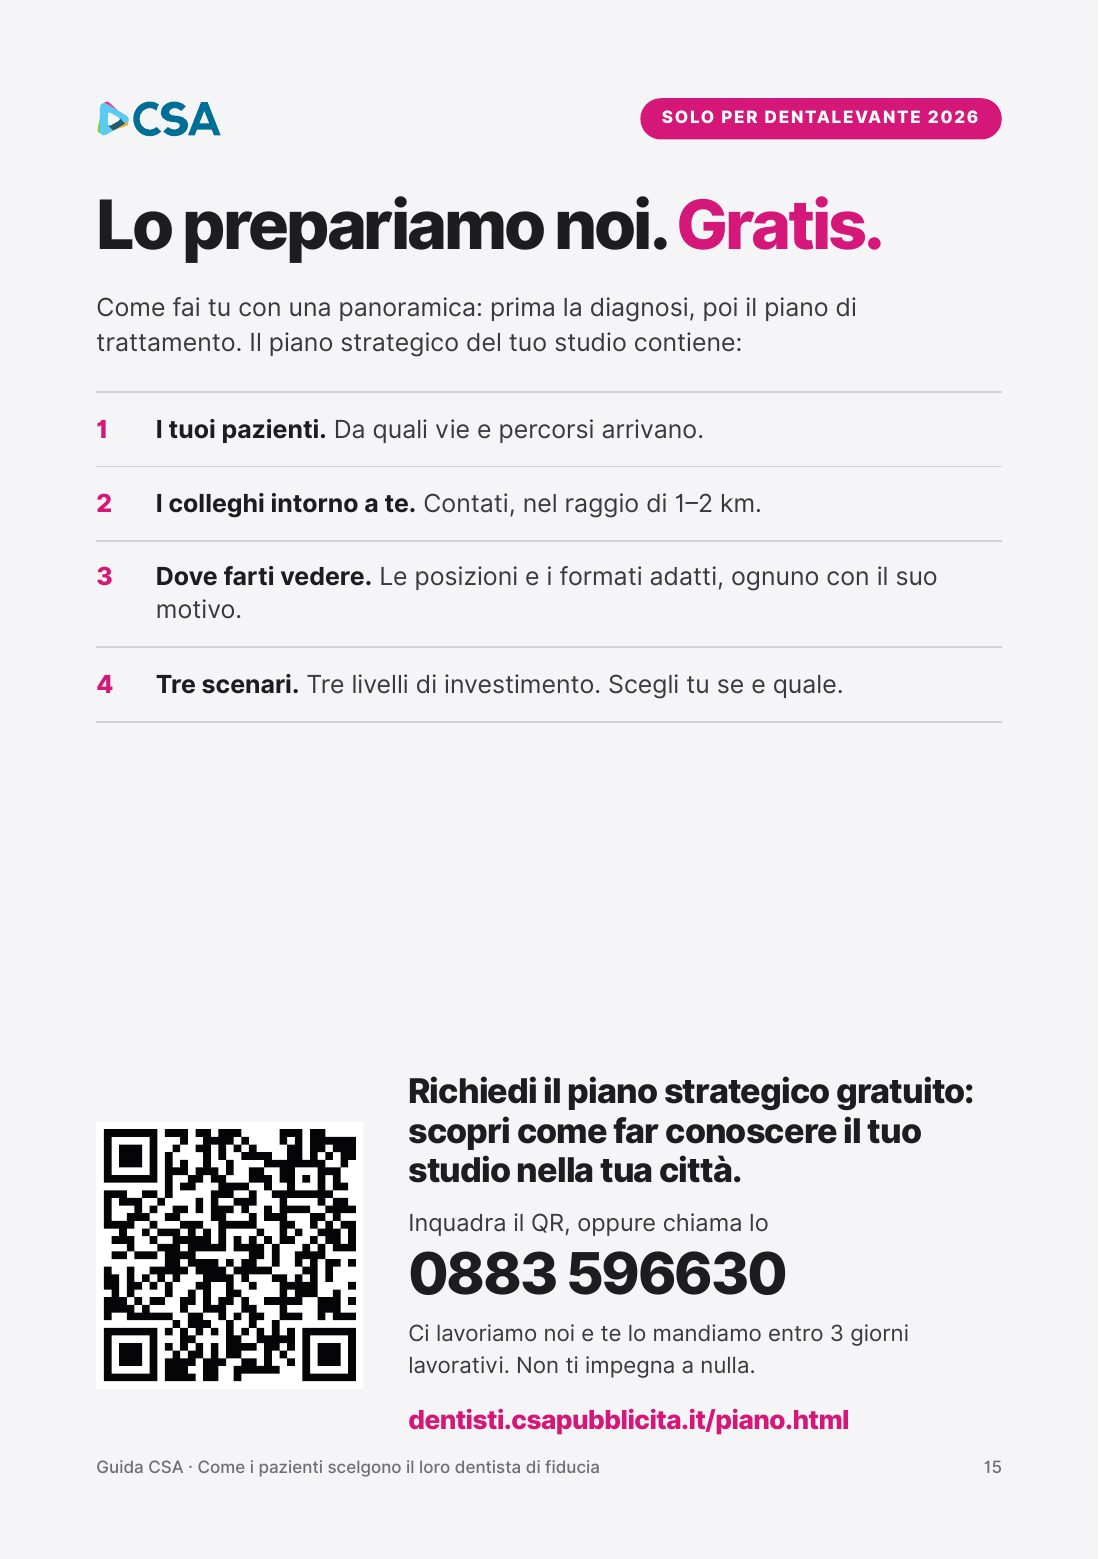
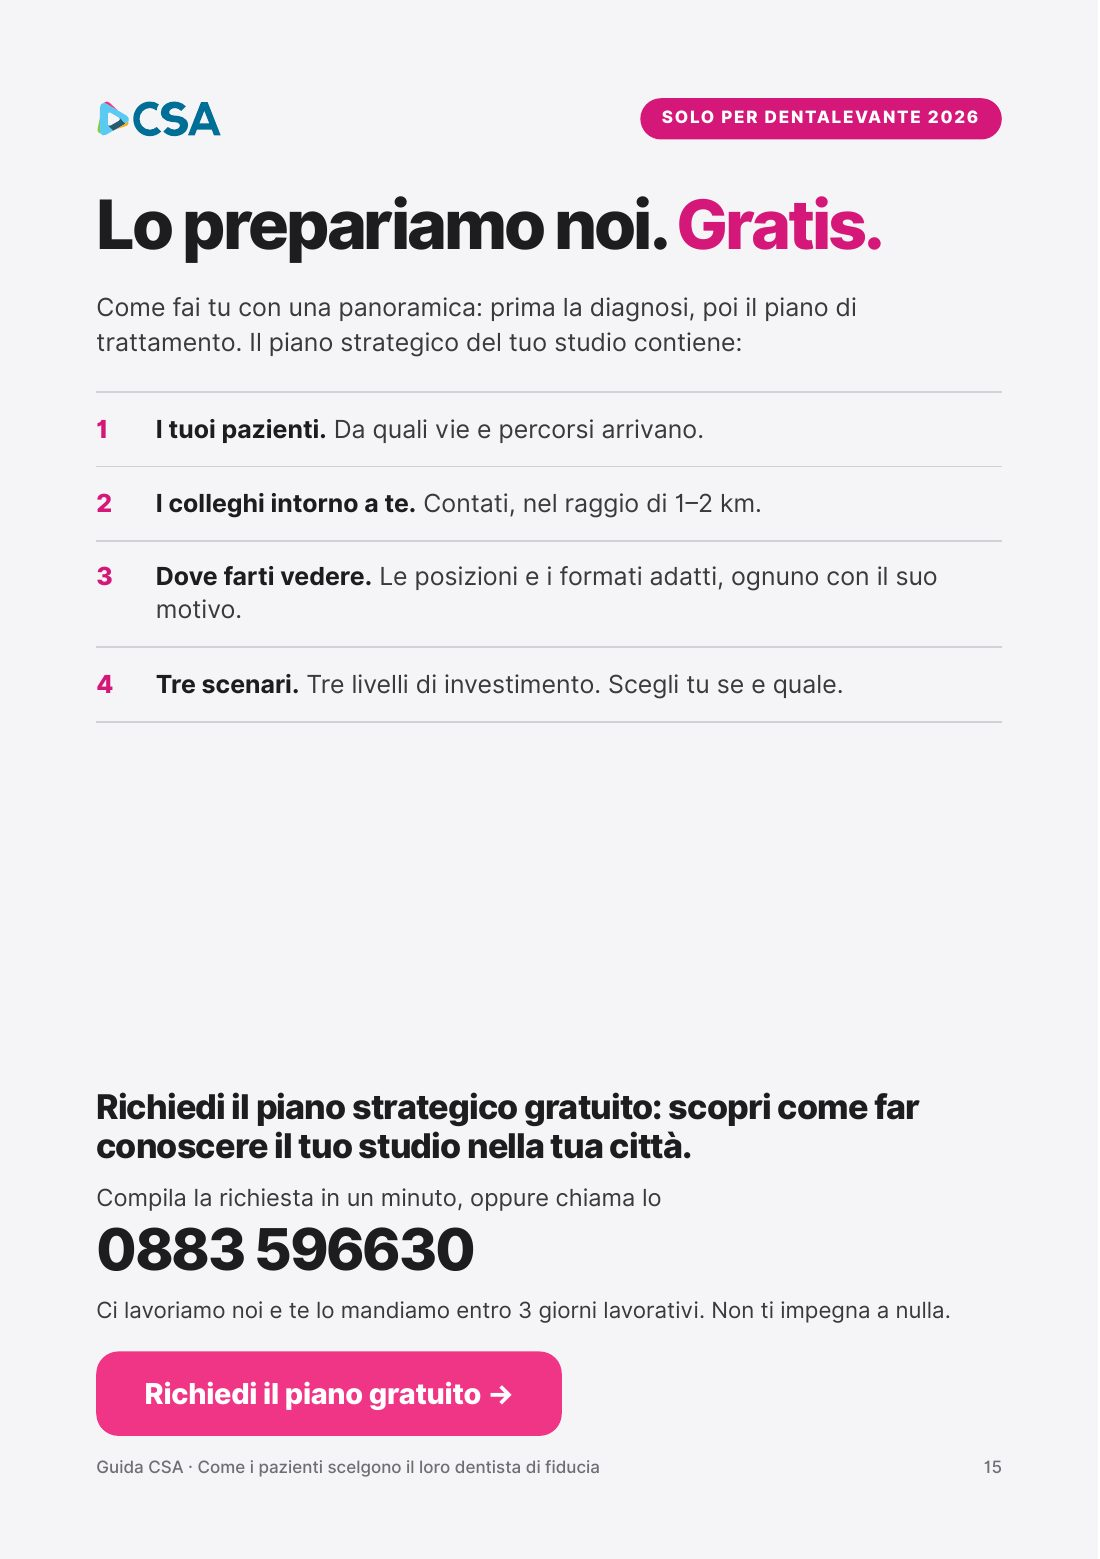
Sfogliabile: pulsante al posto del QR e modulo del piano in finestra

Changed region(s): [[0.0618, 0.6774, 0.8964, 0.9237]]

diff --git a/guida.html b/guida.html
@@ -13,9 +13,12 @@
       pdftoppm -scale-to-x 1100 -scale-to-y -1 -jpeg -jpegopt quality=82 04-guida-dentista-A5.pdf 14-landing/assets/guida/p
   - Sfoglia: StPageFlip 2.0.7 (MIT), in assets/vendor/page-flip.browser.js.
   - Video delle testimonianze (pagine 10-13): si aprono in una finestra sopra la guida (youtube-nocookie), senza uscire.
-  - QR e indirizzo delle pagine 15-16 e la barra in basso: portano a piano.html, sullo stesso sito.
+  - Pagine 15-16 in versione digitale (pulsante al posto del QR, da sorgenti/guida-web.sh). I pulsanti delle pagine 15-16,
+    la barra in basso e la finestra dei video aprono una finestra con il modulo del piano (modulo HubSpot «Landing 2»):
+    il lettore resta nella guida. Senza JavaScript i link portano a piano.html.
   - Tracciamento HubSpot: visita della pagina + visite «virtuali» per ogni video aperto (/guida.html?video=…),
-    per l'arrivo alla pagina del piano (/guida.html?pagina=15) e per il download del PDF (/guida.html?azione=pdf).
+    per l'arrivo alla pagina del piano (/guida.html?pagina=15), per il download del PDF (/guida.html?azione=pdf),
+    per l'apertura del modulo (/guida.html?piano=aperto-…) e per l'invio (/guida.html?piano=inviato).
 -->
 <style>
 @font-face { font-family: Inter; font-weight: 500; src: url(assets/Inter-Medium.otf); font-display: swap; }
@@ -61,6 +64,35 @@ main { position: relative; z-index: 1; flex: 1; display: flex; flex-direction: c
 #modal iframe { position: absolute; inset: 0; width: 100%; height: 100%; border: 0; }
 #modal .dopo { margin-top: 14px; display: flex; flex-wrap: wrap; align-items: center; gap: 10px 16px; font-size: 14px; color: #D1D1D6; }
 #modal .dopo a { color: #fff; font-weight: 800; text-decoration: none; background: var(--m); padding: 11px 16px; border-radius: 10px; }
+/* finestra con il modulo del piano */
+#mPiano { position: fixed; inset: 0; z-index: 30; display: none; align-items: flex-start; justify-content: center; padding: 24px var(--gutter); background: rgba(0,0,0,.78); overflow-y: auto; -webkit-overflow-scrolling: touch; }
+#mPiano.on { display: flex; }
+#mPiano .scheda { position: relative; width: 100%; max-width: 620px; margin: auto 0; background: #fff; color: #1D1D1F; border-radius: 20px; padding: 28px 24px 24px; }
+#mPiano .chiudi { position: absolute; top: 12px; right: 12px; width: 40px; height: 40px; border-radius: 50%; border: 0; background: #F5F5F7; color: #1D1D1F; font-size: 22px; cursor: pointer; }
+#mPiano .pill { display: inline-block; background: var(--m); color: #fff; font-size: 11px; font-weight: 800; letter-spacing: .1em; text-transform: uppercase; padding: 6px 12px; border-radius: 99px; }
+#mPiano h2 { font-size: 27px; font-weight: 800; letter-spacing: -0.035em; line-height: 1.08; margin: 12px 40px 8px 0; }
+#mPiano .sotto { font-size: 15px; line-height: 1.5; color: #3A3A3C; }
+#mPiano .campi { display: grid; grid-template-columns: 1fr 1fr; gap: 12px 12px; margin-top: 18px; }
+#mPiano .largo { grid-column: 1 / -1; }
+@media (max-width: 520px) { #mPiano .campi { grid-template-columns: 1fr; } #mPiano { padding: 12px; } #mPiano .scheda { padding: 24px 18px 20px; } }
+#mPiano label { display: block; font-size: 13px; font-weight: 700; color: #3A3A3C; margin-bottom: 6px; }
+#mPiano input[type=text], #mPiano input[type=tel], #mPiano input[type=email] { width: 100%; min-height: 50px; border: 1.5px solid #D1D1D6; border-radius: 12px; padding: 0 14px; font: 500 16px Inter, sans-serif; color: #1D1D1F; background: #fff; }
+#mPiano input:focus { outline: none; border-color: #D6177A; }
+#mPiano input[aria-invalid=true] { border-color: #D6177A; background: #FFF5F9; }
+#mPiano .scelte { display: flex; flex-wrap: wrap; gap: 8px; }
+#mPiano .scelte label { margin: 0; position: relative; }
+#mPiano .scelte input { position: absolute; opacity: 0; pointer-events: none; }
+#mPiano .scelte span { display: inline-flex; align-items: center; min-height: 44px; padding: 0 15px; border-radius: 22px; border: 1.5px solid #D1D1D6; font-size: 15px; font-weight: 600; cursor: pointer; }
+#mPiano .scelte input:checked + span { background: #1D1D1F; border-color: #1D1D1F; color: #fff; }
+#mPiano .consenso { display: flex; gap: 10px; align-items: flex-start; font-size: 14px; font-weight: 500; line-height: 1.4; margin-top: 14px; }
+#mPiano .consenso input { width: 20px; height: 20px; flex: none; margin-top: 1px; accent-color: #D6177A; }
+#mPiano .info { font-size: 12px; color: #6E6E73; margin-top: 12px; }
+#mPiano .info a { color: #6E6E73; }
+#mPiano .errore { display: none; margin-top: 12px; background: #FFF0F5; color: #B0135F; border-radius: 10px; padding: 11px 12px; font-size: 14px; font-weight: 600; }
+#mPiano .errore.on { display: block; }
+#mPiano .invia { width: 100%; margin-top: 16px; border: 0; border-radius: 14px; background: #D6177A; color: #fff; font: 800 17px Inter, sans-serif; padding: 16px; cursor: pointer; }
+#mPiano .invia:disabled { opacity: .6; }
+#mPiano .ok { width: 52px; height: 52px; border-radius: 50%; background: #2FB36B; color: #fff; font-size: 28px; font-weight: 800; display: flex; align-items: center; justify-content: center; }
 </style>
 </head>
 <body>
@@ -85,14 +117,55 @@ main { position: relative; z-index: 1; flex: 1; display: flex; flex-direction: c
 
 <div class="barra"><div class="riga">
   <p><b>Solo per Dentalevante:</b> il piano strategico gratuito del tuo studio, entro 3 giorni lavorativi.</p>
-  <a id="ctaPiano" href="piano.html?utm_source=guida-web">Richiedi il piano gratuito →</a>
+  <a id="ctaPiano" href="piano.html?utm_source=guida-web" data-piano="barra">Richiedi il piano gratuito →</a>
 </div></div>
 
 <div id="modal" role="dialog" aria-modal="true" aria-labelledby="modalTitolo">
   <div class="box">
     <div class="testa"><b id="modalTitolo"></b><button class="chiudi" id="chiudi" type="button" aria-label="Chiudi il video">×</button></div>
     <div class="video" id="video"></div>
-    <div class="dopo"><span>Vuoi farlo anche per il tuo studio?</span><a href="piano.html?utm_source=guida-video">Richiedi il piano gratuito →</a></div>
+    <div class="dopo"><span>Vuoi farlo anche per il tuo studio?</span><a href="piano.html?utm_source=guida-video" data-piano="video">Richiedi il piano gratuito →</a></div>
+  </div>
+</div>
+
+<div id="mPiano" role="dialog" aria-modal="true" aria-labelledby="mPianoTitolo">
+  <div class="scheda">
+    <button class="chiudi" id="chiudiPiano" type="button" aria-label="Chiudi">×</button>
+    <form id="modulo" novalidate>
+      <span class="pill">Solo per Dentalevante · gratis</span>
+      <h2 id="mPianoTitolo">Il piano strategico del tuo studio.</h2>
+      <p class="sotto">Lo prepariamo noi e te lo mandiamo <b>entro 3 giorni lavorativi</b>: i tuoi pazienti, i colleghi intorno a te, dove farti vedere, tre scenari. Non ti impegna a nulla.</p>
+      <div class="campi">
+        <div><label for="nome">Nome e cognome</label><input type="text" id="nome" autocomplete="name"></div>
+        <div><label for="nomestudio">Nome dello studio</label><input type="text" id="nomestudio" autocomplete="organization"></div>
+        <div><label for="comune">Comune</label><input type="text" id="comune" autocomplete="address-level2"></div>
+        <div><label for="cellulare">Cellulare</label><input type="tel" id="cellulare" autocomplete="tel" inputmode="tel"></div>
+        <div class="largo"><label for="email">Email</label><input type="email" id="email" autocomplete="email" inputmode="email"></div>
+        <div class="largo"><label id="l_tipo">Il tuo studio</label>
+          <div class="scelte" role="radiogroup" aria-labelledby="l_tipo">
+            <label><input type="radio" name="tipo" value="una sede"><span>Una sede</span></label>
+            <label><input type="radio" name="tipo" value="più sedi"><span>Più sedi</span></label>
+            <label><input type="radio" name="tipo" value="sto aprendo"><span>Sto aprendo</span></label>
+          </div></div>
+        <div class="largo"><label id="l_fascia">Quando preferisci essere chiamato?</label>
+          <div class="scelte" role="radiogroup" aria-labelledby="l_fascia">
+            <label><input type="radio" name="fascia" value="mattina"><span>Mattina</span></label>
+            <label><input type="radio" name="fascia" value="pausa pranzo"><span>Pausa pranzo</span></label>
+            <label><input type="radio" name="fascia" value="fine giornata"><span>Fine giornata</span></label>
+          </div></div>
+      </div>
+      <label class="consenso"><input type="checkbox" id="c_ricontatto"><span><b>Voglio ricevere il piano strategico gratuito</b> ed essere ricontattato da CSA per parlarne.</span></label>
+      <label class="consenso"><input type="checkbox" id="c_marketing"><span>Facoltativo. Accetto di ricevere da CSA aggiornamenti e proposte commerciali.</span></label>
+      <p class="info">Titolare del trattamento: C.S.A. S.r.l., Andria (BT). <a href="https://www.iubenda.com/privacy-policy/49713644" target="_blank" rel="noopener">Informativa privacy</a>.</p>
+      <p class="errore" id="errore" role="alert"></p>
+      <button class="invia" type="submit" id="invia">Voglio il mio piano</button>
+    </form>
+    <div id="fatto" hidden>
+      <div class="ok">✓</div>
+      <h2>Fatto. Il tuo piano è in preparazione.</h2>
+      <p class="sotto">Te lo mandiamo <b>entro 3 giorni lavorativi</b>, all'indirizzo che ci hai lasciato. Ti abbiamo appena scritto: se non trovi la mail, controlla la posta indesiderata.</p>
+      <button class="invia" type="button" id="torna">Torna alla guida</button>
+    </div>
   </div>
 </div>
 
@@ -105,9 +178,9 @@ const VIDEO = {
   12: { id: "lsXrYXUX0q0", nome: "Chiarappa Impianti, Modugno", top: .844 },
   13: { id: "kfE5_1H2jRc", nome: "FG Service, forniture industriali e utensileria", top: .740 }
 };
-const PIANO = {
-  15: [{ left: .085, top: .68, w: .83, h: .245 }],
-  16: [{ left: .085, top: .425, w: .83, h: .165 }]
+const PIANO = {   // pulsanti «Richiedi il piano gratuito» delle pagine digitali 15-16 (da sorgenti/guida-web.sh)
+  15: [{ left: .080, top: .860, w: .437, h: .068 }],
+  16: [{ left: .080, top: .444, w: .437, h: .068 }]
 };
 const N = 16;
 
@@ -132,8 +205,9 @@ for (let i = 1; i <= N; i++) {
     d.appendChild(b);
   }
   (PIANO[i] || []).forEach(function (z) {
-    const a = document.createElement("a");
-    a.className = "hot"; a.href = "piano.html?utm_source=guida-web&pagina=" + i; a.setAttribute("aria-label", "Richiedi il piano strategico gratuito");
+    const a = document.createElement("button");
+    a.className = "hot pulse"; a.type = "button"; a.dataset.piano = "pagina-" + i; a.setAttribute("aria-label", "Richiedi il piano strategico gratuito");
+    a.addEventListener("click", function (e) { e.stopPropagation(); apriPiano("pagina-" + i); });
     Object.assign(a.style, { left: (z.left * 100) + "%", width: (z.w * 100) + "%", top: (z.top * 100) + "%", height: (z.h * 100) + "%" });
     d.appendChild(a);
   });
@@ -153,10 +227,6 @@ const flip = new St.PageFlip(libro, {
 });
 flip.loadFromHTML(document.querySelectorAll("#libro .pagina"));
 
-// i link dentro le pagine: StPageFlip li inoltra, ma per sicurezza gestiamo anche il tocco
-libro.addEventListener("click", function (e) {
-  const a = e.target.closest("a.hot"); if (a) { location.href = a.href; }
-});
 
 const contatore = document.getElementById("contatore"), prima = document.getElementById("prima"), dopo = document.getElementById("dopo");
 const viste = new Set();
@@ -175,6 +245,7 @@ prima.addEventListener("click", function () { flip.flipPrev(); });
 dopo.addEventListener("click", function () { flip.flipNext(); });
 document.addEventListener("keydown", function (e) {
   if (document.getElementById("modal").classList.contains("on")) { if (e.key === "Escape") chiudiVideo(); return; }
+  if (document.getElementById("mPiano").classList.contains("on")) return;
   if (e.key === "ArrowRight") flip.flipNext(); if (e.key === "ArrowLeft") flip.flipPrev();
 });
 
@@ -191,6 +262,68 @@ function apriVideo(v) {
 function chiudiVideo() { modal.classList.remove("on"); video.innerHTML = ""; if (ultimoFocus) ultimoFocus.focus(); }
 document.getElementById("chiudi").addEventListener("click", chiudiVideo);
 modal.addEventListener("click", function (e) { if (e.target === modal) chiudiVideo(); });
+
+
+// ===== finestra con il modulo del piano =====
+const HUBSPOT = { portalId: "145641356", moduloPiano: "ba811dc5-2bdd-489e-9659-ebe8396bdb22" };  // Landing 2 · Richiedi il piano
+const q0 = new URLSearchParams(location.search);
+const provenienza = q0.get("utm_source") || "";
+const mPiano = document.getElementById("mPiano"), modulo = document.getElementById("modulo"), errore = document.getElementById("errore");
+let dovePiano = "", focusPrima = null;
+function apriPiano(da) {
+  dovePiano = da; focusPrima = document.activeElement;
+  if (modal.classList.contains("on")) chiudiVideo();
+  mPiano.classList.add("on"); document.body.style.overflow = "hidden";
+  setTimeout(function () { (document.getElementById("fatto").hidden ? document.getElementById("nome") : document.getElementById("torna")).focus(); }, 50);
+  traccia("/guida.html?piano=aperto-" + da);
+}
+function chiudiPiano() { mPiano.classList.remove("on"); document.body.style.overflow = ""; if (focusPrima) focusPrima.focus(); }
+document.querySelectorAll("[data-piano]").forEach(function (el) {
+  if (el.tagName === "A") el.addEventListener("click", function (e) { e.preventDefault(); apriPiano(el.dataset.piano); });
+});
+document.getElementById("chiudiPiano").addEventListener("click", chiudiPiano);
+document.getElementById("torna").addEventListener("click", chiudiPiano);
+mPiano.addEventListener("click", function (e) { if (e.target === mPiano) chiudiPiano(); });
+document.addEventListener("keydown", function (e) { if (e.key === "Escape" && mPiano.classList.contains("on")) chiudiPiano(); });
+
+function cookie(n) { const m = document.cookie.match(new RegExp("(?:^|; )" + n + "=([^;]*)")); return m ? m[1] : ""; }
+modulo.addEventListener("submit", async function (e) {
+  e.preventDefault(); errore.classList.remove("on");
+  const bad = [];
+  ["nome", "nomestudio", "comune", "cellulare", "email"].forEach(function (id) {
+    const el = document.getElementById(id); let ok = !!el.value.trim();
+    if (ok && id === "cellulare") ok = el.value.replace(/\D/g, "").length >= 9;
+    if (ok && id === "email") ok = /^[^\s@]+@[^\s@]+\.[^\s@]+$/.test(el.value.trim());
+    el.setAttribute("aria-invalid", ok ? "false" : "true"); if (!ok) bad.push(el);
+  });
+  if (bad.length || !document.getElementById("c_ricontatto").checked) {
+    errore.textContent = bad.length ? "Controlla i campi evidenziati." : "Per prepararti il piano ci serve il consenso.";
+    errore.classList.add("on"); if (bad[0]) bad[0].focus(); return;
+  }
+  const v = function (id) { return document.getElementById(id).value.trim(); };
+  const sc = function (n) { const el = modulo.querySelector("input[name=" + n + "]:checked"); return el ? el.value : ""; };
+  const parti = v("nome").split(/\s+/), tipo = sc("tipo"), fascia = sc("fascia"), mkt = document.getElementById("c_marketing").checked;
+  const righe = ["Richiesta del piano strategico gratuito", "Tipo di studio: " + (tipo || "non indicato"), "Fascia oraria preferita: " + (fascia || "non indicata"),
+    "Fonte: Dentalevante 2026 · guida sfogliabile (" + (dovePiano || "pulsante") + ")", "Consenso marketing: " + (mkt ? "sì" : "no"),
+    provenienza ? "Provenienza: " + provenienza : ""].filter(Boolean);
+  const campi = { email: v("email"), firstname: parti.shift() || "", lastname: parti.join(" "), mobilephone: v("cellulare"), company: v("nomestudio"), city: v("comune"), message: righe.join("\n") };
+  const corpo = {
+    fields: Object.keys(campi).map(function (k) { return { objectTypeId: "0-1", name: k, value: campi[k] }; }),
+    context: Object.assign({ pageUri: location.href, pageName: document.title }, cookie("hubspotutk") ? { hutk: cookie("hubspotutk") } : {}),
+    legalConsentOptions: { consent: { consentToProcess: true, text: "Acconsento al trattamento dei miei dati da parte di C.S.A. S.r.l. per ricevere quanto richiesto ed essere ricontattato." } }
+  };
+  const b = document.getElementById("invia"); b.disabled = true; b.textContent = "Invio in corso…";
+  try {
+    const r = await fetch("https://api-eu1.hsforms.com/submissions/v3/integration/submit/" + HUBSPOT.portalId + "/" + HUBSPOT.moduloPiano, { method: "POST", headers: { "Content-Type": "application/json" }, body: JSON.stringify(corpo) });
+    if (!r.ok) throw new Error("HubSpot " + r.status);
+    modulo.hidden = true; document.getElementById("fatto").hidden = false; document.getElementById("torna").focus();
+    traccia("/guida.html?piano=inviato");
+    document.getElementById("ctaPiano").textContent = "Piano richiesto ✓";
+  } catch (err) {
+    errore.textContent = "Non siamo riusciti a inviare la richiesta. Riprova, oppure chiama lo 0883 596630."; errore.classList.add("on");
+  }
+  b.disabled = false; b.textContent = "Voglio il mio piano";
+});
 
 document.getElementById("pdf").addEventListener("click", function () { traccia("/guida.html?azione=pdf"); });
 </script>
